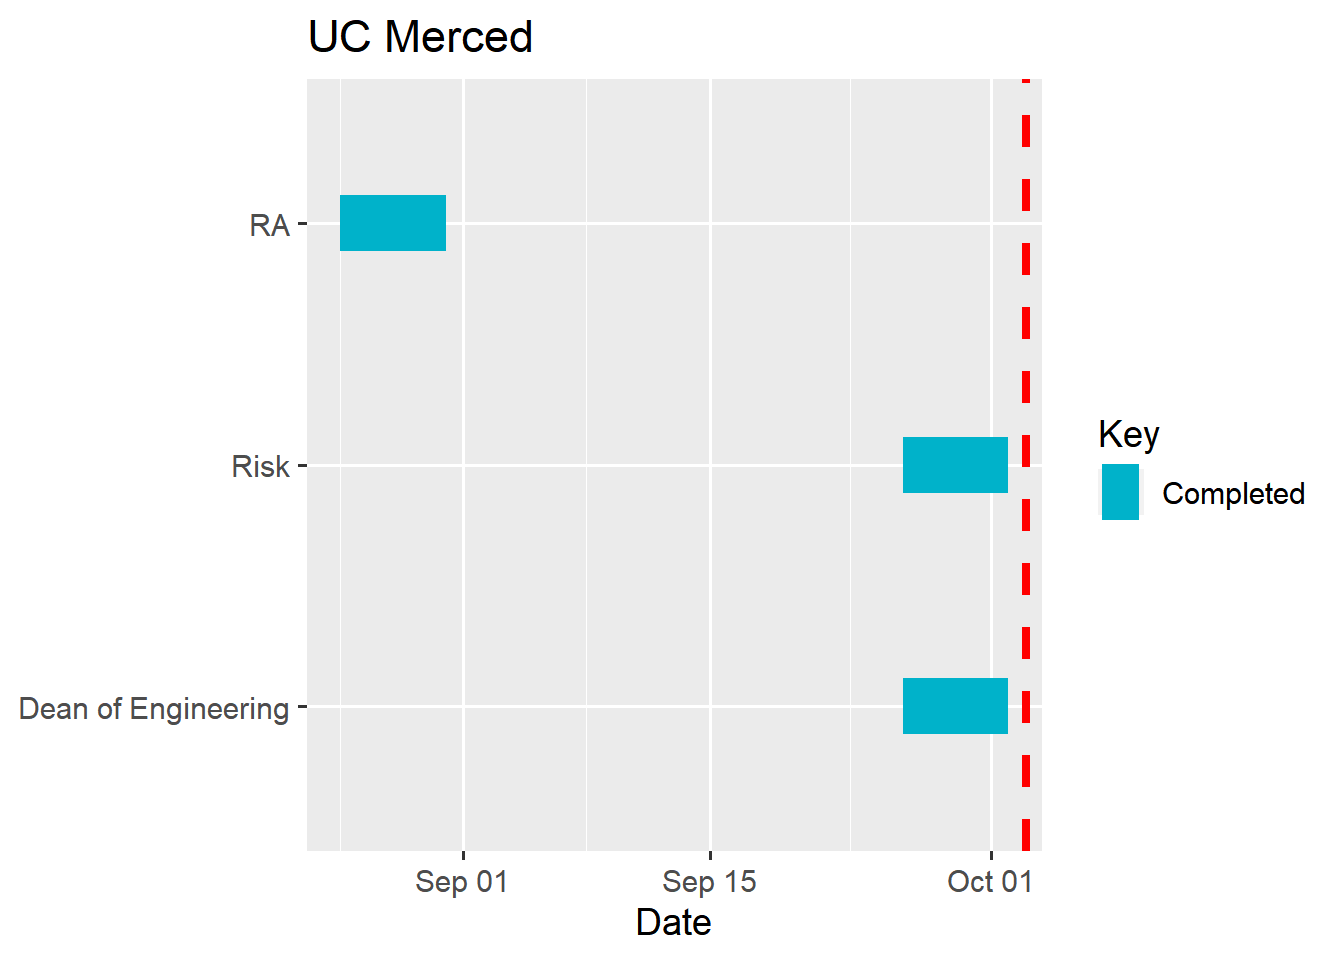
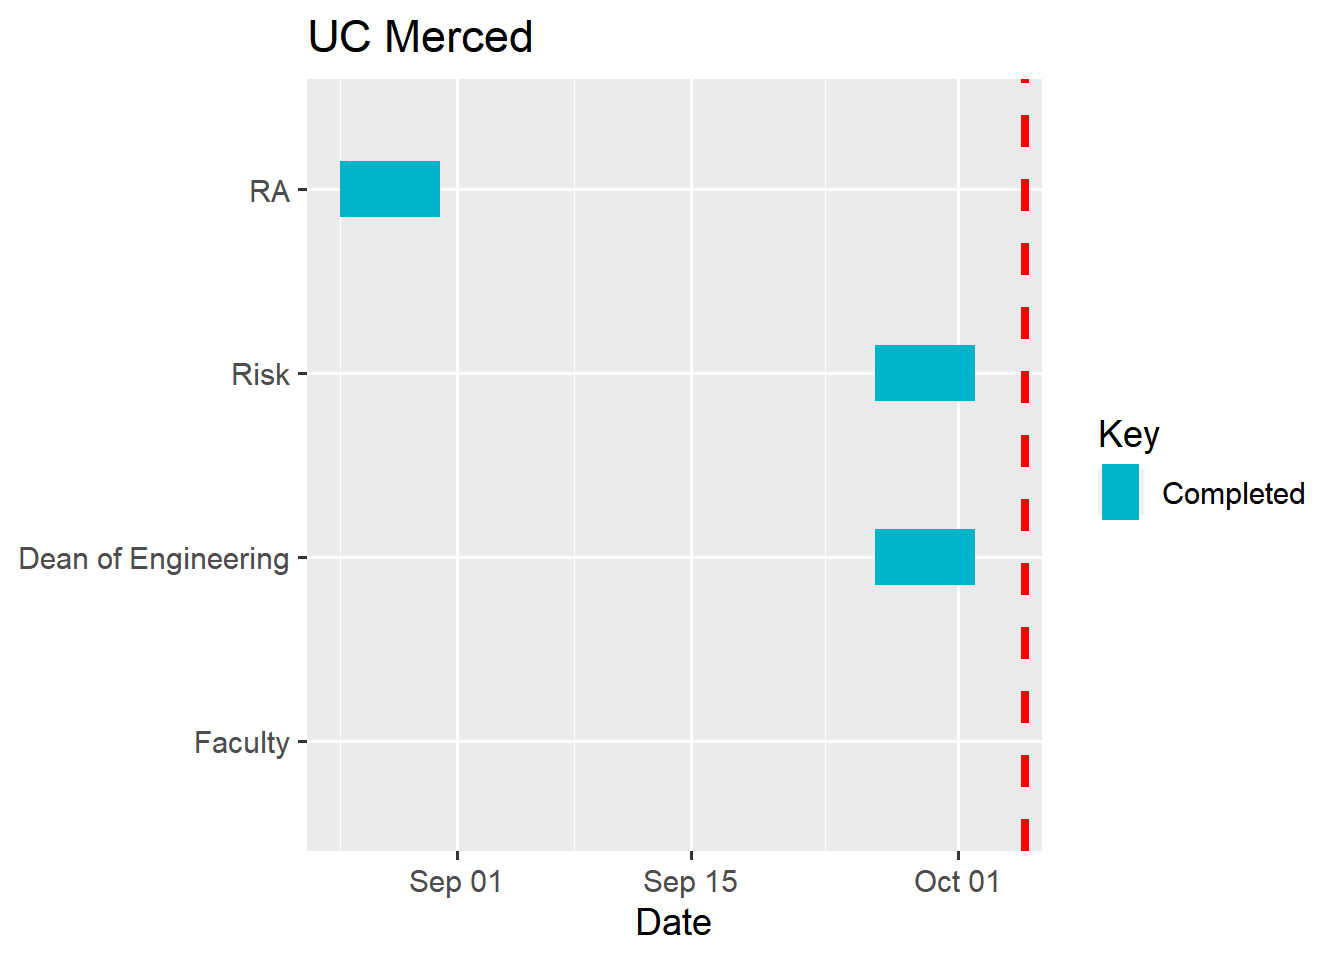
update

diff --git a/docs/campus-status.html b/docs/campus-status.html
@@ -170,7 +170,7 @@
 ## 3    3                 EHS   Completed 2023-09-11 2023-09-25
 ## 4    4                Risk   Completed 2023-09-25 2023-09-28
 ## 5    5             Faculty Not Started       &lt;NA&gt;       &lt;NA&gt;
-## 6    6 Dean of Engineering Not Started       &lt;NA&gt;       &lt;NA&gt;</code></pre>
+## 6    6 Dean of Engineering In Progress 2023-10-03 2023-10-16</code></pre>
 <p><img src="_main_files/figure-html/Campus_Stats-1.png" width="768" /></p>
 <pre><code>## [1] &quot;UC Davis&quot;</code></pre>
 <pre><code>##   Item               Group      Status      Start        End
@@ -191,7 +191,7 @@
 <p><img src="_main_files/figure-html/Campus_Stats-3.png" width="768" /></p>
 <pre><code>## [1] &quot;UCLA&quot;</code></pre>
 <pre><code>##   Item               Group      Status      Start        End
-## 1    1              RPUCLA No Response 2023-10-03       &lt;NA&gt;
+## 1    1              RPUCLA   Completed 2023-10-03 2023-10-05
 ## 2    3                 EHS   Completed 2023-09-20 2023-09-22
 ## 3    4                Risk Not Started       &lt;NA&gt;       &lt;NA&gt;
 ## 4    5             Faculty   Completed 2023-09-26 2023-09-27
@@ -202,7 +202,7 @@
 ## 1    1                  RA   Completed 2023-08-25 2023-08-31
 ## 2    3                 EHS Not Started       &lt;NA&gt;       &lt;NA&gt;
 ## 3    4                Risk   Completed 2023-09-26 2023-10-02
-## 4    5             Faculty Not Started       &lt;NA&gt;       &lt;NA&gt;
+## 4    5             Faculty   Completed 2023-10-04 2023-10-04
 ## 5    6 Dean of Engineering   Completed 2023-09-26 2023-10-02</code></pre>
 <p><img src="_main_files/figure-html/Campus_Stats-5.png" width="768" /></p>
 <pre><code>## [1] &quot;UC Riverside&quot;</code></pre>

diff --git a/docs/index.html b/docs/index.html
@@ -164,7 +164,7 @@
 <div id="header">
 <h1 class="title">UC High-Power Rocketry Student Groups</h1>
 <p class="author"><em></em></p>
-<p class="date"><em>Last Updated: 2023-10-03</em></p>
+<p class="date"><em>Last Updated: 2023-10-05</em></p>
 </div>
 <div id="home-page" class="section level1 unnumbered hasAnchor">
 <h1>Home Page<a href="index.html#home-page" class="anchor-section" aria-label="Anchor link to header"></a></h1>

diff --git a/docs/ucla.html b/docs/ucla.html
@@ -334,7 +334,7 @@ No
 Hazardous Materials in Workspace
 </td>
 <td style="text-align:left;">
-NA
+In Flammables Cabinet
 </td>
 </tr>
 <tr>
@@ -466,7 +466,7 @@ LOX, Ethanol, N2O
 Fuel Storage On Campus
 </td>
 <td style="text-align:left;">
-NA
+Yes
 </td>
 </tr>
 <tr>
@@ -474,7 +474,7 @@ NA
 Fuel Transportation
 </td>
 <td style="text-align:left;">
-NA
+Yes
 </td>
 </tr>
 <tr>
